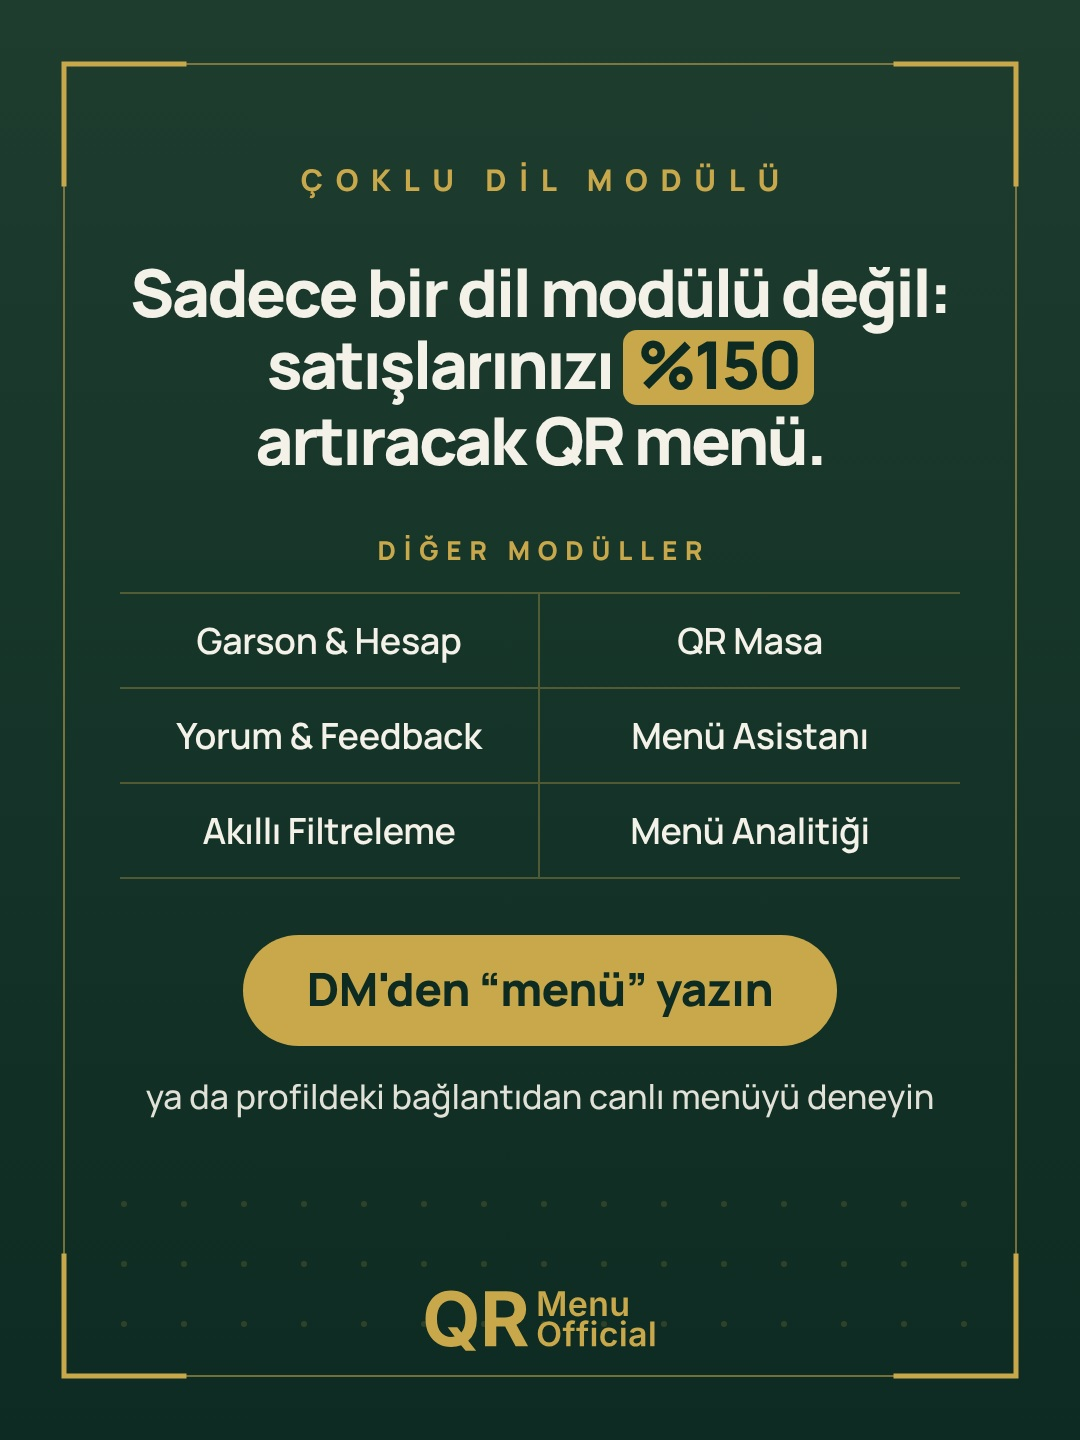
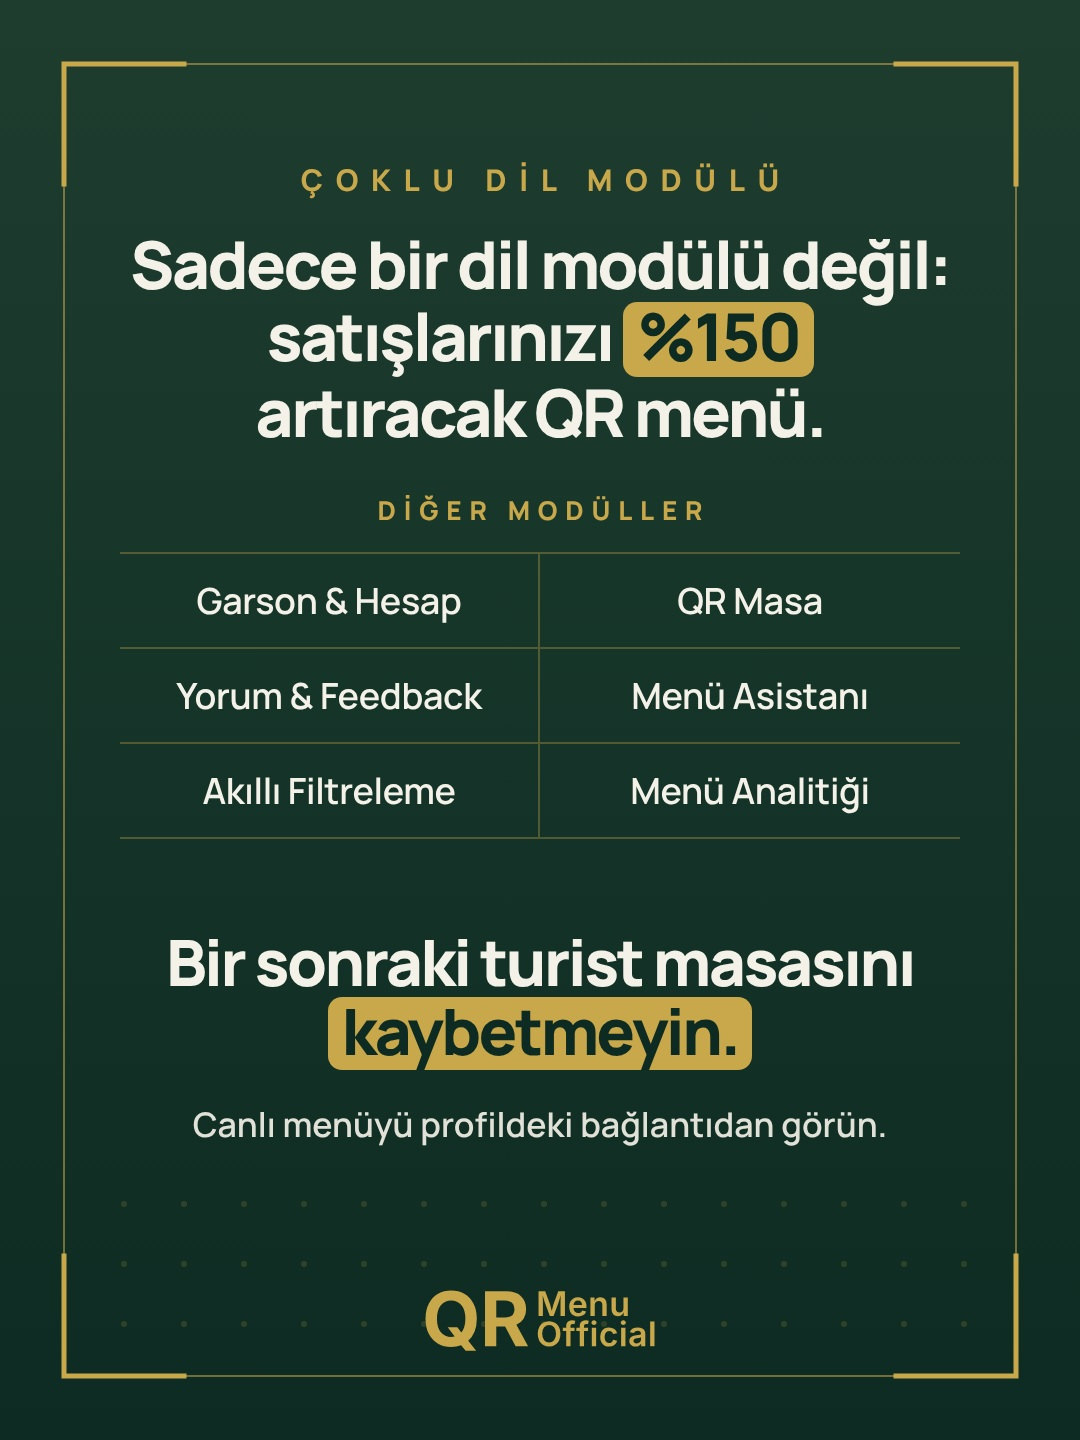
Carousel slayt 5: ikna edici kapanış cümlesi, tek eylem satırı
Claude-Session: https://claude.ai/code/session_01FBw9rVwrniVjyFvtgVdFXq

Changed region(s): [[0.1222, 0.1562, 0.8861, 0.5938], [0.1222, 0.625, 0.8556, 0.8125]]

diff --git a/analiz/carousel-dil/carousel-v6.html b/analiz/carousel-dil/carousel-v6.html
@@ -135,12 +135,12 @@ body{background:linear-gradient(var(--y2),var(--y))!important;color:var(--off)!i
 .tk i svg{stroke:#C9A84C!important}
 .tk .c2t{font-size:38px;line-height:1.26;font-weight:500;letter-spacing:-.01em}
 .tk .c2t b{color:var(--g);font-weight:800}
-.s5 .eb{margin-top:56px;font-weight:800;font-size:26px;letter-spacing:.3em;padding-left:.3em;color:var(--g)}
+.s5 .eb{margin-top:44px;font-weight:800;font-size:26px;letter-spacing:.3em;padding-left:.3em;color:var(--g)}
 .mods{display:grid;grid-template-columns:1fr 1fr;width:100%;margin-top:24px;border-top:2px solid #C9A84C55}
 .mods span{font-weight:600;font-size:36px;padding:22px 0;border-bottom:2px solid #C9A84C55;letter-spacing:-.01em;text-align:center}
 .mods span:nth-child(odd){border-right:2px solid #C9A84C55}
 .cta5{margin-top:56px;background:var(--g);color:var(--y);font-weight:800;font-size:46px;letter-spacing:-.01em;border-radius:99px;padding:22px 64px 26px}
-.how5{margin-top:28px;font-weight:500;font-size:34px;line-height:1.3;opacity:.92}
+.how5{margin-top:32px;font-weight:600;font-size:34px;line-height:1.3;opacity:.92}
 </style></head><body>
 <svg class="rg a" width="1080" height="1440" viewBox="0 0 1080 1440" fill="none"><g><circle cx="1200" cy="300" r="180" stroke="#0D2B22" stroke-width="3.0" opacity="0.198"/><circle cx="1200" cy="300" r="300" stroke="#0D2B22" stroke-width="2.6" opacity="0.162"/><circle cx="1200" cy="300" r="420" stroke="#0D2B22" stroke-width="2.2" opacity="0.126"/><circle cx="1200" cy="300" r="540" stroke="#0D2B22" stroke-width="2.0" opacity="0.095"/><circle cx="1200" cy="300" r="660" stroke="#0D2B22" stroke-width="1.6" opacity="0.068"/><circle cx="1200" cy="300" r="780" stroke="#0D2B22" stroke-width="1.4" opacity="0.045"/><circle cx="1200" cy="300" r="900" stroke="#0D2B22" stroke-width="1.2" opacity="0.032"/></g><g><circle cx="-120" cy="1560" r="180" stroke="#0D2B22" stroke-width="2.4" opacity="0.135"/><circle cx="-120" cy="1560" r="300" stroke="#0D2B22" stroke-width="2" opacity="0.099"/><circle cx="-120" cy="1560" r="420" stroke="#0D2B22" stroke-width="1.6" opacity="0.068"/><circle cx="-120" cy="1560" r="520" stroke="#0D2B22" stroke-width="1.3" opacity="0.045"/></g></svg> <svg class="rg z" width="1080" height="1440" viewBox="0 0 1080 1440" fill="none"><g><circle cx="1200" cy="300" r="180" stroke="#C9A84C" stroke-width="3.0" opacity="0.242"/><circle cx="1200" cy="300" r="300" stroke="#C9A84C" stroke-width="2.6" opacity="0.198"/><circle cx="1200" cy="300" r="420" stroke="#C9A84C" stroke-width="2.2" opacity="0.154"/><circle cx="1200" cy="300" r="540" stroke="#C9A84C" stroke-width="2.0" opacity="0.116"/><circle cx="1200" cy="300" r="660" stroke="#C9A84C" stroke-width="1.6" opacity="0.083"/><circle cx="1200" cy="300" r="780" stroke="#C9A84C" stroke-width="1.4" opacity="0.055"/><circle cx="1200" cy="300" r="900" stroke="#C9A84C" stroke-width="1.2" opacity="0.039"/></g><g><circle cx="-120" cy="1560" r="180" stroke="#C9A84C" stroke-width="2.4" opacity="0.165"/><circle cx="-120" cy="1560" r="300" stroke="#C9A84C" stroke-width="2" opacity="0.121"/><circle cx="-120" cy="1560" r="420" stroke="#C9A84C" stroke-width="1.6" opacity="0.083"/><circle cx="-120" cy="1560" r="520" stroke="#C9A84C" stroke-width="1.3" opacity="0.055"/></g></svg>
 <svg class="fr" width="1080" height="1440" viewBox="0 0 1080 1440" fill="none" stroke="#C9A84C" stroke-linecap="square"><rect x="64" y="64" width="952" height="1312" stroke-width="2" opacity=".55"/><g stroke-width="5"><path d="M64 184V64h120M896 64h120v120M1016 1256v120H896M184 1376H64V1256"/></g></svg><svg style="position:absolute;inset:0;z-index:0" width="1080" height="1440" fill="#C9A84C" opacity=".17"><circle cx="124" cy="244" r="3"/><circle cx="124" cy="304" r="3"/><circle cx="124" cy="364" r="3"/><circle cx="124" cy="424" r="3"/><circle cx="124" cy="484" r="3"/><circle cx="124" cy="544" r="3"/><circle cx="124" cy="604" r="3"/><circle cx="124" cy="664" r="3"/><circle cx="124" cy="724" r="3"/><circle cx="124" cy="784" r="3"/><circle cx="124" cy="844" r="3"/><circle cx="124" cy="904" r="3"/><circle cx="124" cy="964" r="3"/><circle cx="124" cy="1024" r="3"/><circle cx="124" cy="1084" r="3"/><circle cx="124" cy="1144" r="3"/><circle cx="124" cy="1204" r="3"/><circle cx="124" cy="1264" r="3"/><circle cx="124" cy="1324" r="3"/><circle cx="184" cy="244" r="3"/><circle cx="184" cy="304" r="3"/><circle cx="184" cy="364" r="3"/><circle cx="184" cy="424" r="3"/><circle cx="184" cy="484" r="3"/><circle cx="184" cy="544" r="3"/><circle cx="184" cy="604" r="3"/><circle cx="184" cy="664" r="3"/><circle cx="184" cy="724" r="3"/><circle cx="184" cy="784" r="3"/><circle cx="184" cy="844" r="3"/><circle cx="184" cy="904" r="3"/><circle cx="184" cy="964" r="3"/><circle cx="184" cy="1024" r="3"/><circle cx="184" cy="1084" r="3"/><circle cx="184" cy="1144" r="3"/><circle cx="184" cy="1204" r="3"/><circle cx="184" cy="1264" r="3"/><circle cx="184" cy="1324" r="3"/><circle cx="244" cy="244" r="3"/><circle cx="244" cy="304" r="3"/><circle cx="244" cy="364" r="3"/><circle cx="244" cy="424" r="3"/><circle cx="244" cy="484" r="3"/><circle cx="244" cy="544" r="3"/><circle cx="244" cy="604" r="3"/><circle cx="244" cy="664" r="3"/><circle cx="244" cy="724" r="3"/><circle cx="244" cy="784" r="3"/><circle cx="244" cy="844" r="3"/><circle cx="244" cy="904" r="3"/><circle cx="244" cy="964" r="3"/><circle cx="244" cy="1024" r="3"/><circle cx="244" cy="1084" r="3"/><circle cx="244" cy="1144" r="3"/><circle cx="244" cy="1204" r="3"/><circle cx="244" cy="1264" r="3"/><circle cx="244" cy="1324" r="3"/><circle cx="304" cy="244" r="3"/><circle cx="304" cy="304" r="3"/><circle cx="304" cy="364" r="3"/><circle cx="304" cy="424" r="3"/><circle cx="304" cy="484" r="3"/><circle cx="304" cy="544" r="3"/><circle cx="304" cy="604" r="3"/><circle cx="304" cy="664" r="3"/><circle cx="304" cy="724" r="3"/><circle cx="304" cy="784" r="3"/><circle cx="304" cy="844" r="3"/><circle cx="304" cy="904" r="3"/><circle cx="304" cy="964" r="3"/><circle cx="304" cy="1024" r="3"/><circle cx="304" cy="1084" r="3"/><circle cx="304" cy="1144" r="3"/><circle cx="304" cy="1204" r="3"/><circle cx="304" cy="1264" r="3"/><circle cx="304" cy="1324" r="3"/><circle cx="364" cy="244" r="3"/><circle cx="364" cy="304" r="3"/><circle cx="364" cy="364" r="3"/><circle cx="364" cy="424" r="3"/><circle cx="364" cy="484" r="3"/><circle cx="364" cy="544" r="3"/><circle cx="364" cy="604" r="3"/><circle cx="364" cy="664" r="3"/><circle cx="364" cy="724" r="3"/><circle cx="364" cy="784" r="3"/><circle cx="364" cy="844" r="3"/><circle cx="364" cy="904" r="3"/><circle cx="364" cy="964" r="3"/><circle cx="364" cy="1024" r="3"/><circle cx="364" cy="1084" r="3"/><circle cx="364" cy="1144" r="3"/><circle cx="364" cy="1204" r="3"/><circle cx="364" cy="1264" r="3"/><circle cx="364" cy="1324" r="3"/><circle cx="424" cy="244" r="3"/><circle cx="424" cy="304" r="3"/><circle cx="424" cy="364" r="3"/><circle cx="424" cy="424" r="3"/><circle cx="424" cy="484" r="3"/><circle cx="424" cy="544" r="3"/><circle cx="424" cy="604" r="3"/><circle cx="424" cy="664" r="3"/><circle cx="424" cy="724" r="3"/><circle cx="424" cy="784" r="3"/><circle cx="424" cy="844" r="3"/><circle cx="424" cy="904" r="3"/><circle cx="424" cy="964" r="3"/><circle cx="424" cy="1024" r="3"/><circle cx="424" cy="1084" r="3"/><circle cx="424" cy="1144" r="3"/><circle cx="424" cy="1204" r="3"/><circle cx="424" cy="1264" r="3"/><circle cx="424" cy="1324" r="3"/><circle cx="484" cy="244" r="3"/><circle cx="484" cy="304" r="3"/><circle cx="484" cy="364" r="3"/><circle cx="484" cy="424" r="3"/><circle cx="484" cy="484" r="3"/><circle cx="484" cy="544" r="3"/><circle cx="484" cy="604" r="3"/><circle cx="484" cy="664" r="3"/><circle cx="484" cy="724" r="3"/><circle cx="484" cy="784" r="3"/><circle cx="484" cy="844" r="3"/><circle cx="484" cy="904" r="3"/><circle cx="484" cy="964" r="3"/><circle cx="484" cy="1024" r="3"/><circle cx="484" cy="1084" r="3"/><circle cx="484" cy="1144" r="3"/><circle cx="484" cy="1204" r="3"/><circle cx="484" cy="1264" r="3"/><circle cx="484" cy="1324" r="3"/><circle cx="544" cy="244" r="3"/><circle cx="544" cy="304" r="3"/><circle cx="544" cy="364" r="3"/><circle cx="544" cy="424" r="3"/><circle cx="544" cy="484" r="3"/><circle cx="544" cy="544" r="3"/><circle cx="544" cy="604" r="3"/><circle cx="544" cy="664" r="3"/><circle cx="544" cy="724" r="3"/><circle cx="544" cy="784" r="3"/><circle cx="544" cy="844" r="3"/><circle cx="544" cy="904" r="3"/><circle cx="544" cy="964" r="3"/><circle cx="544" cy="1024" r="3"/><circle cx="544" cy="1084" r="3"/><circle cx="544" cy="1144" r="3"/><circle cx="544" cy="1204" r="3"/><circle cx="544" cy="1264" r="3"/><circle cx="544" cy="1324" r="3"/><circle cx="604" cy="244" r="3"/><circle cx="604" cy="304" r="3"/><circle cx="604" cy="364" r="3"/><circle cx="604" cy="424" r="3"/><circle cx="604" cy="484" r="3"/><circle cx="604" cy="544" r="3"/><circle cx="604" cy="604" r="3"/><circle cx="604" cy="664" r="3"/><circle cx="604" cy="724" r="3"/><circle cx="604" cy="784" r="3"/><circle cx="604" cy="844" r="3"/><circle cx="604" cy="904" r="3"/><circle cx="604" cy="964" r="3"/><circle cx="604" cy="1024" r="3"/><circle cx="604" cy="1084" r="3"/><circle cx="604" cy="1144" r="3"/><circle cx="604" cy="1204" r="3"/><circle cx="604" cy="1264" r="3"/><circle cx="604" cy="1324" r="3"/><circle cx="664" cy="244" r="3"/><circle cx="664" cy="304" r="3"/><circle cx="664" cy="364" r="3"/><circle cx="664" cy="424" r="3"/><circle cx="664" cy="484" r="3"/><circle cx="664" cy="544" r="3"/><circle cx="664" cy="604" r="3"/><circle cx="664" cy="664" r="3"/><circle cx="664" cy="724" r="3"/><circle cx="664" cy="784" r="3"/><circle cx="664" cy="844" r="3"/><circle cx="664" cy="904" r="3"/><circle cx="664" cy="964" r="3"/><circle cx="664" cy="1024" r="3"/><circle cx="664" cy="1084" r="3"/><circle cx="664" cy="1144" r="3"/><circle cx="664" cy="1204" r="3"/><circle cx="664" cy="1264" r="3"/><circle cx="664" cy="1324" r="3"/><circle cx="724" cy="244" r="3"/><circle cx="724" cy="304" r="3"/><circle cx="724" cy="364" r="3"/><circle cx="724" cy="424" r="3"/><circle cx="724" cy="484" r="3"/><circle cx="724" cy="544" r="3"/><circle cx="724" cy="604" r="3"/><circle cx="724" cy="664" r="3"/><circle cx="724" cy="724" r="3"/><circle cx="724" cy="784" r="3"/><circle cx="724" cy="844" r="3"/><circle cx="724" cy="904" r="3"/><circle cx="724" cy="964" r="3"/><circle cx="724" cy="1024" r="3"/><circle cx="724" cy="1084" r="3"/><circle cx="724" cy="1144" r="3"/><circle cx="724" cy="1204" r="3"/><circle cx="724" cy="1264" r="3"/><circle cx="724" cy="1324" r="3"/><circle cx="784" cy="244" r="3"/><circle cx="784" cy="304" r="3"/><circle cx="784" cy="364" r="3"/><circle cx="784" cy="424" r="3"/><circle cx="784" cy="484" r="3"/><circle cx="784" cy="544" r="3"/><circle cx="784" cy="604" r="3"/><circle cx="784" cy="664" r="3"/><circle cx="784" cy="724" r="3"/><circle cx="784" cy="784" r="3"/><circle cx="784" cy="844" r="3"/><circle cx="784" cy="904" r="3"/><circle cx="784" cy="964" r="3"/><circle cx="784" cy="1024" r="3"/><circle cx="784" cy="1084" r="3"/><circle cx="784" cy="1144" r="3"/><circle cx="784" cy="1204" r="3"/><circle cx="784" cy="1264" r="3"/><circle cx="784" cy="1324" r="3"/><circle cx="844" cy="244" r="3"/><circle cx="844" cy="304" r="3"/><circle cx="844" cy="364" r="3"/><circle cx="844" cy="424" r="3"/><circle cx="844" cy="484" r="3"/><circle cx="844" cy="544" r="3"/><circle cx="844" cy="604" r="3"/><circle cx="844" cy="664" r="3"/><circle cx="844" cy="724" r="3"/><circle cx="844" cy="784" r="3"/><circle cx="844" cy="844" r="3"/><circle cx="844" cy="904" r="3"/><circle cx="844" cy="964" r="3"/><circle cx="844" cy="1024" r="3"/><circle cx="844" cy="1084" r="3"/><circle cx="844" cy="1144" r="3"/><circle cx="844" cy="1204" r="3"/><circle cx="844" cy="1264" r="3"/><circle cx="844" cy="1324" r="3"/><circle cx="904" cy="244" r="3"/><circle cx="904" cy="304" r="3"/><circle cx="904" cy="364" r="3"/><circle cx="904" cy="424" r="3"/><circle cx="904" cy="484" r="3"/><circle cx="904" cy="544" r="3"/><circle cx="904" cy="604" r="3"/><circle cx="904" cy="664" r="3"/><circle cx="904" cy="724" r="3"/><circle cx="904" cy="784" r="3"/><circle cx="904" cy="844" r="3"/><circle cx="904" cy="904" r="3"/><circle cx="904" cy="964" r="3"/><circle cx="904" cy="1024" r="3"/><circle cx="904" cy="1084" r="3"/><circle cx="904" cy="1144" r="3"/><circle cx="904" cy="1204" r="3"/><circle cx="904" cy="1264" r="3"/><circle cx="904" cy="1324" r="3"/><circle cx="964" cy="244" r="3"/><circle cx="964" cy="304" r="3"/><circle cx="964" cy="364" r="3"/><circle cx="964" cy="424" r="3"/><circle cx="964" cy="484" r="3"/><circle cx="964" cy="544" r="3"/><circle cx="964" cy="604" r="3"/><circle cx="964" cy="664" r="3"/><circle cx="964" cy="724" r="3"/><circle cx="964" cy="784" r="3"/><circle cx="964" cy="844" r="3"/><circle cx="964" cy="904" r="3"/><circle cx="964" cy="964" r="3"/><circle cx="964" cy="1024" r="3"/><circle cx="964" cy="1084" r="3"/><circle cx="964" cy="1144" r="3"/><circle cx="964" cy="1204" r="3"/><circle cx="964" cy="1264" r="3"/><circle cx="964" cy="1324" r="3"/></svg><div class="s" id="S"></div>
@@ -200,8 +200,9 @@ const SL={
   <div class="h" id="H" data-max="66" data-min="56">${L(['Sadece bir dil modülü değil:','satışlarınızı [[%150]]','artıracak QR menü.'])}</div>
   <div class="eb">DİĞER MODÜLLER</div>
   <div class="mods"><span>Garson &amp; Hesap</span><span>QR Masa</span><span>Yorum &amp; Feedback</span><span>Menü Asistanı</span><span>Akıllı Filtreleme</span><span>Menü Analitiği</span></div>
-  <div class="cta5">DM'den “menü” yazın</div>
-  <div class="how5">ya da profildeki bağlantıdan canlı menüyü deneyin</div>
+  <div class="rule" style="margin:48px auto 40px"></div>
+  <div class="h" id="H2" data-max="64" data-min="52">${L(['Bir sonraki turist masasını','[[kaybetmeyin.]]'])}</div>
+  <div class="how5">Canlı menüyü profildeki bağlantıdan görün.</div>
  </div><div class="logo">${LG()}</div>`}
 };
 const n=+(new URLSearchParams(location.search).get('s')||1);
@@ -211,7 +212,7 @@ if(n==4)document.querySelectorAll('svg circle[r="3"]').forEach(c=>{if(+c.getAttr
 if(n==5)document.querySelectorAll('svg circle[r="3"]').forEach(c=>{if(+c.getAttribute('cy')>230&&+c.getAttribute('cy')<1170)c.remove()});
 if(n==3)document.querySelectorAll('svg circle[r="3"]').forEach(c=>{if(+c.getAttribute('cy')<500&&+c.getAttribute('cx')<700)c.remove()});
 document.fonts.ready.then(()=>{const W=840;
- for(const id of ['H','P','P2']){const e=document.getElementById(id);if(!e)continue;let f=+e.dataset.max||56;const mn=+e.dataset.min||40;
+ for(const id of ['H','H2','P','P2']){const e=document.getElementById(id);if(!e)continue;let f=+e.dataset.max||56;const mn=+e.dataset.min||40;
   const w=()=>Math.max(...[...e.children].map(c=>{const r=document.createRange();r.selectNodeContents(c);return r.getBoundingClientRect().width}));
   e.style.fontSize=f+'px';while(w()>W&&f>mn){f-=1;e.style.fontSize=f+'px'}}
  document.body.dataset.ready=1;});
